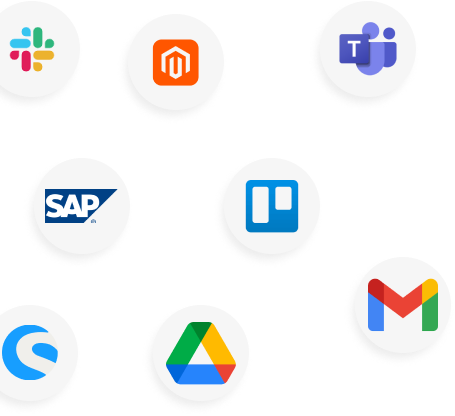
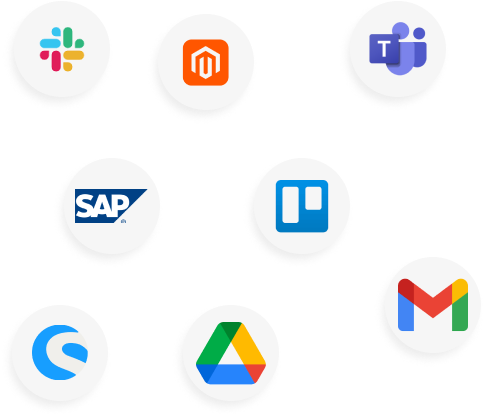
redone uber for mobile use

diff --git a/src/Components/Uber/Uber.module.scss b/src/Components/Uber/Uber.module.scss
@@ -3,18 +3,22 @@
     align-items: center;
     justify-content: center;
     position: relative;
-    top: -14px;
-    margin: 99px 0 102px 0;
+    margin: 10px 0 0 0;
     overflow: hidden;
     width: 100%;
 }
 
 .uber__container{
     display: flex;
+    flex-direction: column;
+    justify-content: center;
     align-items: center;
     padding: 0;
     gap: 35px;
     width: 100%;
+    @media (min-width: 1024px) {
+        flex-direction: row;
+    }
 }
 
 .uber__textContainer{
@@ -23,8 +27,6 @@
     align-items: center;
     padding: 0;
     gap: 19px;
-    height: 133px;
-    width: 500px;
 }
 
 .uber__text{
@@ -33,6 +35,8 @@
     align-items: center;
     padding: 0px;
     gap: 13px;
+    margin: 0 20px;
+    max-width: 485px;
 }
 
 .uber__h1{
@@ -54,4 +58,8 @@
     color: #353535;
     opacity: 0.8;
     margin: 0;
+}
+
+.uber__icons > img{
+    width: 100%;
 }

diff --git a/src/Components/Uber/Uber.js b/src/Components/Uber/Uber.js
@@ -6,7 +6,7 @@ import rightIcons from '../../Images/Uber/rightIcons.png';
 const Uber = () => (
     <section className={styles.uber}>
         <div className={styles.uber__container}>
-            <div className={styles.uber__leftIcons}>
+            <div className={styles.uber__icons}>
                 <img src={leftIcons} />
             </div>
             <div className={styles.uber__textContainer}>
@@ -15,7 +15,7 @@ const Uber = () => (
                     <p className={styles.uber__p}>Expand the capabilities of Pipedrive with hundreds of apps and integrations</p>
                 </div>
             </div>
-            <div className={styles.uber__rightIcons}>
+            <div className={styles.uber__icons}>
                 <img src={rightIcons} />
             </div>
         </div>

diff --git a/src/Components/Referenzen/Referenzen.module.scss b/src/Components/Referenzen/Referenzen.module.scss
@@ -74,21 +74,27 @@
 }
 
 .referenzen__h1{
-    font-size: 34px;
+    font-size: 30px;
     line-height: 135%;
     color: #017737;
     font-weight: 600;
     margin: 0;
+    @media (min-width: 768px) {
+        font-size: 35px;
+    }
 }
 
 .referenzen__p{
     font-family: 'Inter', sans-serif;
     font-weight: 500;
-    font-size: 20px;
+    font-size: 14px;
     line-height: 149.5%;
     color: #353535;
     opacity: 0.6;
     margin: 10px 0 0 0;
+    @media (min-width: 768px) {
+        font-size: 20px;
+    }
 }
 
 .referenzen__button{

diff --git a/src/App.js b/src/App.js
@@ -19,8 +19,8 @@ function App() {
       <Ablauf />
       <Buche />
       <Referenzen />
-      {/* <Uber />
-      <Form1 /> */}
+      <Uber />
+      {/* <Form1 /> */}
     </div>
   );
 }
